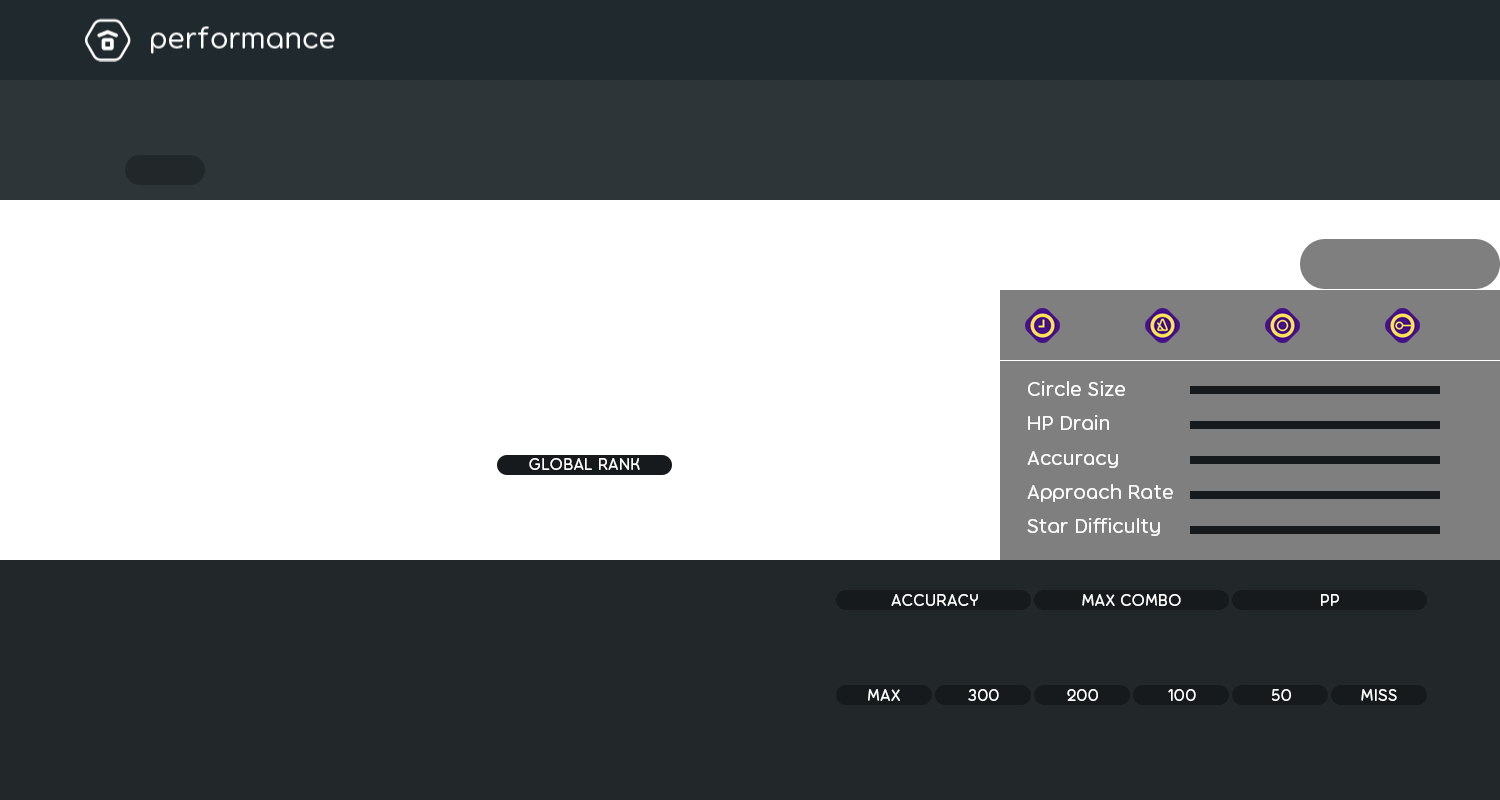
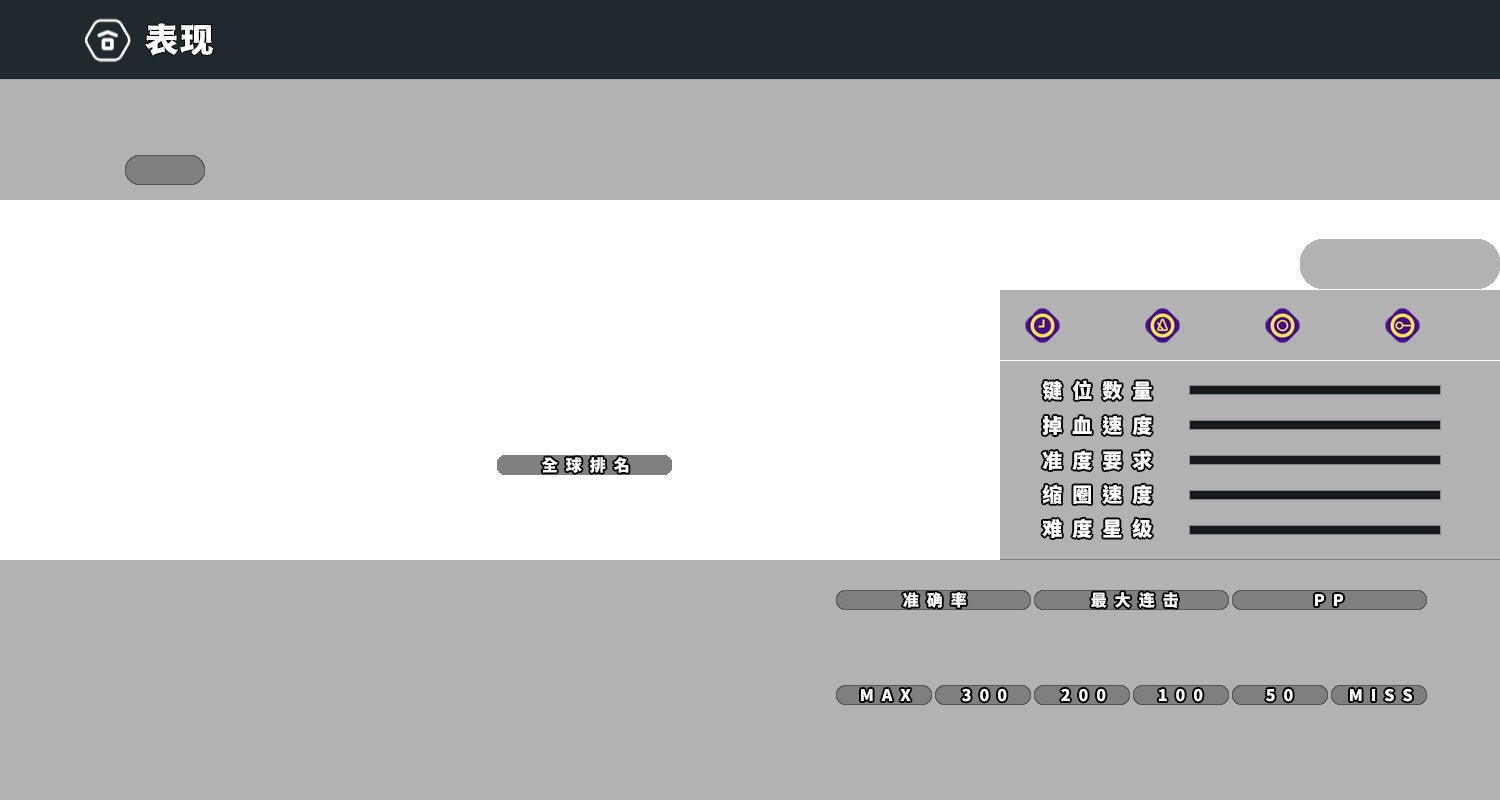
:sparkles: 更改成绩图样式
* 修改recent成绩图排版，扩展BG图片到1500*720

* 汉化图片，并修改透明度

* Update draw.py

* Update draw.py

* Add files via upload

* Add files via upload

diff --git a/nonebot_plugin_osubot/draw.py b/nonebot_plugin_osubot/draw.py
@@ -120,7 +120,7 @@ def crop_bg(size: str, path: Union[str, BytesIO, Path]):
     bg_w, bg_h = bg.size[0], bg.size[1]
     if size == 'BG':
         fix_w = 1500
-        fix_h = 360
+        fix_h = 720
     elif size == 'H':
         fix_w = 540
         fix_h = 180
@@ -443,7 +443,7 @@ async def draw_score(project: str,
     cover_crop = crop_bg('BG', cover_path)
     cover_gb = cover_crop.filter(ImageFilter.GaussianBlur(1))
     cover_img = ImageEnhance.Brightness(cover_gb).enhance(2 / 4.0)
-    im.alpha_composite(cover_img, (0, 200))
+    im.alpha_composite(cover_img, (0, 79))
     # 获取成绩背景做底图
     bg = get_modeimage(FGM[score_info.mode])
     recent_bg = Image.open(bg).convert('RGBA')
@@ -565,7 +565,7 @@ async def draw_score(project: str,
     w_time = DataText(630, 421, 18, new_time, Torus_SemiBold, anchor='lm')
     im = draw_text(im, w_time)
     # 全球排名
-    w_grank = DataText(513, 496, 24, grank, Torus_SemiBold, anchor='lm')
+    w_grank = DataText(583, 490, 24, grank, Torus_SemiBold, anchor='mm')
     im = draw_text(im, w_grank)
     # 左下玩家名
     w_l_username = DataText(195, 670, 24, score_info.user.username, Torus_SemiBold, anchor='lm')
@@ -576,55 +576,55 @@ async def draw_score(project: str,
     im = draw_text(im, w_line)
     # acc,cb,pp,300,100,50,miss
     if score_info.mode == 'osu':
-        w_sspp = DataText(650, 625, 30, ss_pp, Torus_Regular, anchor='mm')
+        w_sspp = DataText(650, 630, 30, ss_pp, Torus_Regular, anchor='mm')
         im = draw_text(im, w_sspp)
-        w_ifpp = DataText(770, 625, 30, if_pp, Torus_Regular, anchor='mm')
+        w_ifpp = DataText(770, 630, 30, if_pp, Torus_Regular, anchor='mm')
         im = draw_text(im, w_ifpp)
-        w_pp = DataText(890, 625, 30, int(round(pp_info.pp, 0)), Torus_Regular, anchor='mm')
-        w_aimpp = DataText(650, 720, 30, int(round(pp_info.pp_aim, 0)), Torus_Regular, anchor='mm')
+        w_pp = DataText(890, 630, 30, int(round(pp_info.pp, 0)), Torus_Regular, anchor='mm')
+        w_aimpp = DataText(650, 725, 30, int(round(pp_info.pp_aim, 0)), Torus_Regular, anchor='mm')
         im = draw_text(im, w_aimpp)
-        w_spdpp = DataText(770, 720, 30, int(round(pp_info.pp_speed, 0)), Torus_Regular, anchor='mm')
+        w_spdpp = DataText(770, 725, 30, int(round(pp_info.pp_speed, 0)), Torus_Regular, anchor='mm')
         im = draw_text(im, w_spdpp)
-        w_accpp = DataText(890, 720, 30, int(round(pp_info.pp_acc, 0)), Torus_Regular, anchor='mm')
+        w_accpp = DataText(890, 725, 30, int(round(pp_info.pp_acc, 0)), Torus_Regular, anchor='mm')
         im = draw_text(im, w_accpp)
-        w_acc = DataText(1087, 625, 30, f'{score_info.accuracy * 100:.2f}%', Torus_Regular, anchor='mm')
-        w_maxcb = DataText(1315, 625, 30, f'{score_info.max_combo:,}/{mapinfo.max_combo:,}', Torus_Regular, anchor='mm')
-        w_300 = DataText(1030, 720, 30, score_info.statistics.count_300, Torus_Regular, anchor='mm')
-        w_100 = DataText(1144, 720, 30, score_info.statistics.count_100, Torus_Regular, anchor='mm')
-        w_50 = DataText(1258, 720, 30, score_info.statistics.count_50, Torus_Regular, anchor='mm')
+        w_acc = DataText(1087, 630, 30, f'{score_info.accuracy * 100:.2f}%', Torus_Regular, anchor='mm')
+        w_maxcb = DataText(1315, 630, 30, f'{score_info.max_combo:,}/{mapinfo.max_combo:,}', Torus_Regular, anchor='mm')
+        w_300 = DataText(1030, 725, 30, score_info.statistics.count_300, Torus_Regular, anchor='mm')
+        w_100 = DataText(1144, 725, 30, score_info.statistics.count_100, Torus_Regular, anchor='mm')
+        w_50 = DataText(1258, 725, 30, score_info.statistics.count_50, Torus_Regular, anchor='mm')
         im = draw_text(im, w_50)
-        w_miss = DataText(1372, 720, 30, score_info.statistics.count_miss, Torus_Regular, anchor='mm')
+        w_miss = DataText(1372, 725, 30, score_info.statistics.count_miss, Torus_Regular, anchor='mm')
     elif score_info.mode == 'taiko':
-        w_acc = DataText(1050, 625, 30, f'{score_info.accuracy * 100:.2f}%', Torus_Regular, anchor='mm')
-        w_maxcb = DataText(1202, 625, 30, f'{score_info.max_combo:,}/{mapinfo.max_combo:,}',
+        w_acc = DataText(1050, 630, 30, f'{score_info.accuracy * 100:.2f}%', Torus_Regular, anchor='mm')
+        w_maxcb = DataText(1202, 630, 30, f'{score_info.max_combo:,}/{mapinfo.max_combo:,}',
                            Torus_Regular, anchor='mm')
-        w_pp = DataText(1352, 625, 30, f'{int(round(pp_info.pp, 0))}/{ss_pp}', Torus_Regular, anchor='mm')
-        w_300 = DataText(1050, 720, 30, score_info.statistics.count_300, Torus_Regular, anchor='mm')
-        w_100 = DataText(1202, 720, 30, score_info.statistics.count_100, Torus_Regular, anchor='mm')
-        w_miss = DataText(1352, 720, 30, score_info.statistics.count_miss, Torus_Regular, anchor='mm')
+        w_pp = DataText(1352, 630, 30, f'{int(round(pp_info.pp, 0))}/{ss_pp}', Torus_Regular, anchor='mm')
+        w_300 = DataText(1050, 725, 30, score_info.statistics.count_300, Torus_Regular, anchor='mm')
+        w_100 = DataText(1202, 725, 30, score_info.statistics.count_100, Torus_Regular, anchor='mm')
+        w_miss = DataText(1352, 725, 30, score_info.statistics.count_miss, Torus_Regular, anchor='mm')
     elif score_info.mode == 'fruits':
-        w_acc = DataText(1016, 625, 30, f'{score_info.accuracy * 100:.2f}%', Torus_Regular, anchor='mm')
-        w_maxcb = DataText(1180, 625, 30, f'{score_info.max_combo:,}/{mapinfo.max_combo:,}',
+        w_acc = DataText(1016, 630, 30, f'{score_info.accuracy * 100:.2f}%', Torus_Regular, anchor='mm')
+        w_maxcb = DataText(1180, 630, 30, f'{score_info.max_combo:,}/{mapinfo.max_combo:,}',
                            Torus_Regular, anchor='mm')
-        w_pp = DataText(1344, 625, 30, f'{int(round(pp_info.pp, 0))}/{ss_pp}', Torus_Regular, anchor='mm')
-        w_300 = DataText(995, 720, 30, score_info.statistics.count_300, Torus_Regular, anchor='mm')
-        w_100 = DataText(1118, 720, 30, score_info.statistics.count_100, Torus_Regular, anchor='mm')
-        w_katu = DataText(1242, 720, 30, score_info.statistics.count_katu, Torus_Regular, anchor='mm')
+        w_pp = DataText(1344, 630, 30, f'{int(round(pp_info.pp, 0))}/{ss_pp}', Torus_Regular, anchor='mm')
+        w_300 = DataText(995, 725, 30, score_info.statistics.count_300, Torus_Regular, anchor='mm')
+        w_100 = DataText(1118, 725, 30, score_info.statistics.count_100, Torus_Regular, anchor='mm')
+        w_katu = DataText(1242, 725, 30, score_info.statistics.count_katu, Torus_Regular, anchor='mm')
         im = draw_text(im, w_katu)
-        w_miss = DataText(1365, 720, 30, score_info.statistics.count_miss, Torus_Regular, anchor='mm')
+        w_miss = DataText(1365, 725, 30, score_info.statistics.count_miss, Torus_Regular, anchor='mm')
     else:
-        w_acc = DataText(935, 625, 30, f'{score_info.accuracy * 100:.2f}%', Torus_Regular, anchor='mm')
-        w_maxcb = DataText(1130, 625, 30, f'{score_info.max_combo:,}', Torus_Regular, anchor='mm')
-        w_pp = DataText(1328, 625, 30, f'{int(round(pp_info.pp, 0))}/{ss_pp}', Torus_Regular, anchor='mm')
-        w_geki = DataText(886, 720, 30, score_info.statistics.count_geki, Torus_Regular, anchor='mm')
+        w_acc = DataText(935, 630, 30, f'{score_info.accuracy * 100:.2f}%', Torus_Regular, anchor='mm')
+        w_maxcb = DataText(1130, 630, 30, f'{score_info.max_combo:,}', Torus_Regular, anchor='mm')
+        w_pp = DataText(1328, 630, 30, f'{int(round(pp_info.pp, 0))}/{ss_pp}', Torus_Regular, anchor='mm')
+        w_geki = DataText(886, 725, 30, score_info.statistics.count_geki, Torus_Regular, anchor='mm')
         im = draw_text(im, w_geki)
-        w_300 = DataText(984, 720, 30, score_info.statistics.count_300, Torus_Regular, anchor='mm')
-        w_katu = DataText(1083, 720, 30, score_info.statistics.count_katu, Torus_Regular, anchor='mm')
+        w_300 = DataText(984, 725, 30, score_info.statistics.count_300, Torus_Regular, anchor='mm')
+        w_katu = DataText(1083, 725, 30, score_info.statistics.count_katu, Torus_Regular, anchor='mm')
         im = draw_text(im, w_katu)
-        w_100 = DataText(1182, 720, 30, score_info.statistics.count_100, Torus_Regular, anchor='mm')
-        w_50 = DataText(1280, 720, 30, score_info.statistics.count_50, Torus_Regular, anchor='mm')
+        w_100 = DataText(1182, 725, 30, score_info.statistics.count_100, Torus_Regular, anchor='mm')
+        w_50 = DataText(1280, 725, 30, score_info.statistics.count_50, Torus_Regular, anchor='mm')
         im = draw_text(im, w_50)
-        w_miss = DataText(1378, 720, 30, score_info.statistics.count_miss, Torus_Regular, anchor='mm')
+        w_miss = DataText(1378, 725, 30, score_info.statistics.count_miss, Torus_Regular, anchor='mm')
     im = draw_text(im, w_acc)
     im = draw_text(im, w_maxcb)
     im = draw_text(im, w_pp)
